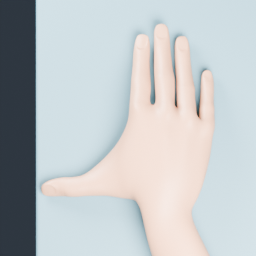
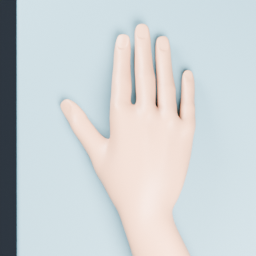
Refine preview thumb to a relaxed spread

Changed region(s): [[0.0625, 0.0, 0.75, 1.0], [0.6562, 0.25, 0.8438, 1.0]]

diff --git a/tools/create_preview.py b/tools/create_preview.py
@@ -9,12 +9,13 @@ Blender with an isolated user profile. Model assets stay in .cache.
 import argparse
 import importlib
 import json
+import math
 from pathlib import Path
 import sys
 
 import addon_utils
 import bpy
-from mathutils import Matrix, Vector
+from mathutils import Matrix, Quaternion, Vector
 
 project = Path(__file__).resolve().parents[1]
 sys.path.insert(0, str(project))
@@ -25,6 +26,7 @@ parser.add_argument('--mpfb-dir', type=Path)
 parser.add_argument('--source-blend', type=Path)
 parser.add_argument('--constraints', type=Path)
 parser.add_argument('--skip-render', action='store_true')
+parser.add_argument('--thumb-spread-degrees', type=float, default=35.0)
 arguments = parser.parse_args(sys.argv[sys.argv.index('--') + 1:] if '--' in sys.argv else [])
 
 if arguments.source_blend:
@@ -85,6 +87,28 @@ surface.scale = (.22, .32, .025)
 bpy.ops.object.transform_apply(location=False, rotation=False, scale=True)
 bpy.context.view_layer.update()
 solver.snap(surface)
+
+# Demonstrate the documented editable-control refinement step. A flat target
+# permits more thumb spread than this presentation needs; retain all native
+# limits while bringing the thumb toward a relaxed hand pose.
+base = rig.pose.bones['thumb.01.R']
+tip = rig.pose.bones['thumb.03.R']
+thumb_vector = rig.matrix_world.to_3x3() @ (tip.tail - base.head)
+thumb_vector -= normal * thumb_vector.dot(normal)
+thumb_vector.normalize()
+spread_before = math.degrees(math.atan2(abs(thumb_vector.dot(across)), thumb_vector.dot(heading)))
+sign = 1 if thumb_vector.dot(across) > 0 else -1
+angle = math.radians(arguments.thumb_spread_degrees)
+desired = heading * math.cos(angle) + across * sign * math.sin(angle)
+turn = math.atan2(normal.dot(thumb_vector.cross(desired)), thumb_vector.dot(desired))
+origin = rig.matrix_world @ base.head
+change = Matrix.Translation(origin) @ Quaternion(normal, turn).to_matrix().to_4x4() @ Matrix.Translation(-origin)
+base.matrix = rig.matrix_world.inverted() @ change @ rig.matrix_world @ base.matrix
+rig.update_tag()
+bpy.context.view_layer.update()
+thumb_vector = rig.matrix_world.to_3x3() @ (tip.tail - base.head)
+spread_after = math.degrees(math.atan2(abs(thumb_vector.dot(across)), thumb_vector.dot(heading)))
+assert spread_after < spread_before - 10, 'Thumb refinement did not reduce its spread'
 if constraint_report:
     from tools.preview_constraints import verify_evaluated_limits
     constraint_report.update(verify_evaluated_limits(rig))
@@ -179,6 +203,8 @@ report = {'model': 'Adult female MPFB core basemesh', 'asset_license': 'CC0-1.0'
           'side': 'R', 'rendered_hand_vertices': len(points),
           'source': 'https://static.makehumancommunity.org/mpfb/faq/why_use.html',
           'blender': bpy.app.version_string, 'addon_version': addon.__version__}
+report['thumb_refinement'] = {'manual_control_refinement': True, 'spread_before_degrees': spread_before,
+                              'spread_after_degrees': spread_after}
 if constraint_report:
     report['joint_limits'] = constraint_report
 (project / 'docs/preview-provenance.json').write_text(json.dumps(report, indent=2) + '\n')

diff --git a/docs/validation.md b/docs/validation.md
@@ -25,11 +25,14 @@ The six public workflow tests live in
 and release ZIP checksum. The [preview](preview.png) shows an adult female MPFB
 core model's hand posed by the extension. The model was generated with MPFB
 2.0.17 and Rigify in Blender 5.2.1 LTS; Hand Posing captured its skin calibration
-and snapped the right hand to the preview surface. The camera frames the genuine
+and snapped the right hand to the preview surface. The thumb was then refined
+with the editable control from approximately 94 degrees to a relaxed 35-degree
+spread. The camera frames the genuine
 MPFB thumb and fingers. See [provenance](preview-provenance.json).
 The preview also applies the woman's joint-limit policy from
 `man_and_woman3.blend`: 30 finger constraints, two wrist constraints, and 12
-adjustable wrist-bound drivers. Evaluated pose verification passed after snapping;
+adjustable wrist-bound drivers. Evaluated pose verification passed after snapping
+and thumb refinement;
 the maximum angular limit error was below 0.000001 radians. The reference Blender
 file retained its original SHA-256 checksum. These constraints belong to the
 demonstration rig; the extension continues to honor the user's existing rig setup.

diff --git a/docs/publishing.md b/docs/publishing.md
@@ -58,6 +58,9 @@ finger limits and two wrist limits in native custom spaces, preserving anatomica
 extension/flexion when fitting the frames to the new model. Wrist properties drive
 all 12 wrist bounds. The preview verifies evaluated joint rotations against the
 limits after snapping. Add `--skip-render` to repeat that verification quickly.
+The thumbnail demonstrates editable pose refinement: after snapping, the thumb
+control is brought to a 35-degree spread while retaining the reference limits.
+The listing describes this refinement explicitly.
 Review the current [addon guidelines](https://developer.blender.org/docs/handbook/extensions/addon_guidelines/)
 and [terms](https://extensions.blender.org/terms-of-service/) for the submission.
 The manifest declares GPL-3.0-or-later and requires Blender 5.2.

diff --git a/docs/extension-listing.md b/docs/extension-listing.md
@@ -46,7 +46,8 @@ leave visible gaps at finger joints; visual review remains part of the workflow.
 Move the arm or target closer if contact is beyond the rig's reach. Dense skin
 and target geometry increase solve time. Blender's Undo restores a prior pose.
 
-The previews show an adult female MPFB model's hand after snapping to a surface.
+The previews show an adult female MPFB model's hand after snapping to a surface
+and refining the thumb with the editable rig controls.
 The character is generated from MPFB's CC0 core assets. MPFB is used to create
 the demonstration model; it is not required to use Hand Posing on existing rigs.
 

diff --git a/README.md b/README.md
@@ -6,7 +6,8 @@ the controls when enabled.
 
 ![Adult female MPFB hand posed against a surface](docs/preview.png)
 
-The preview shows an adult female MPFB model's hand after snapping to a surface.
+The preview shows an adult female MPFB model's hand after snapping to a surface
+and refining the thumb with the editable rig controls.
 The model uses MPFB's CC0 core assets; see [preview provenance](docs/preview-provenance.json).
 
 Requires Blender 5.2 or later and standard Rigify hand controls with `.L` and `.R`
